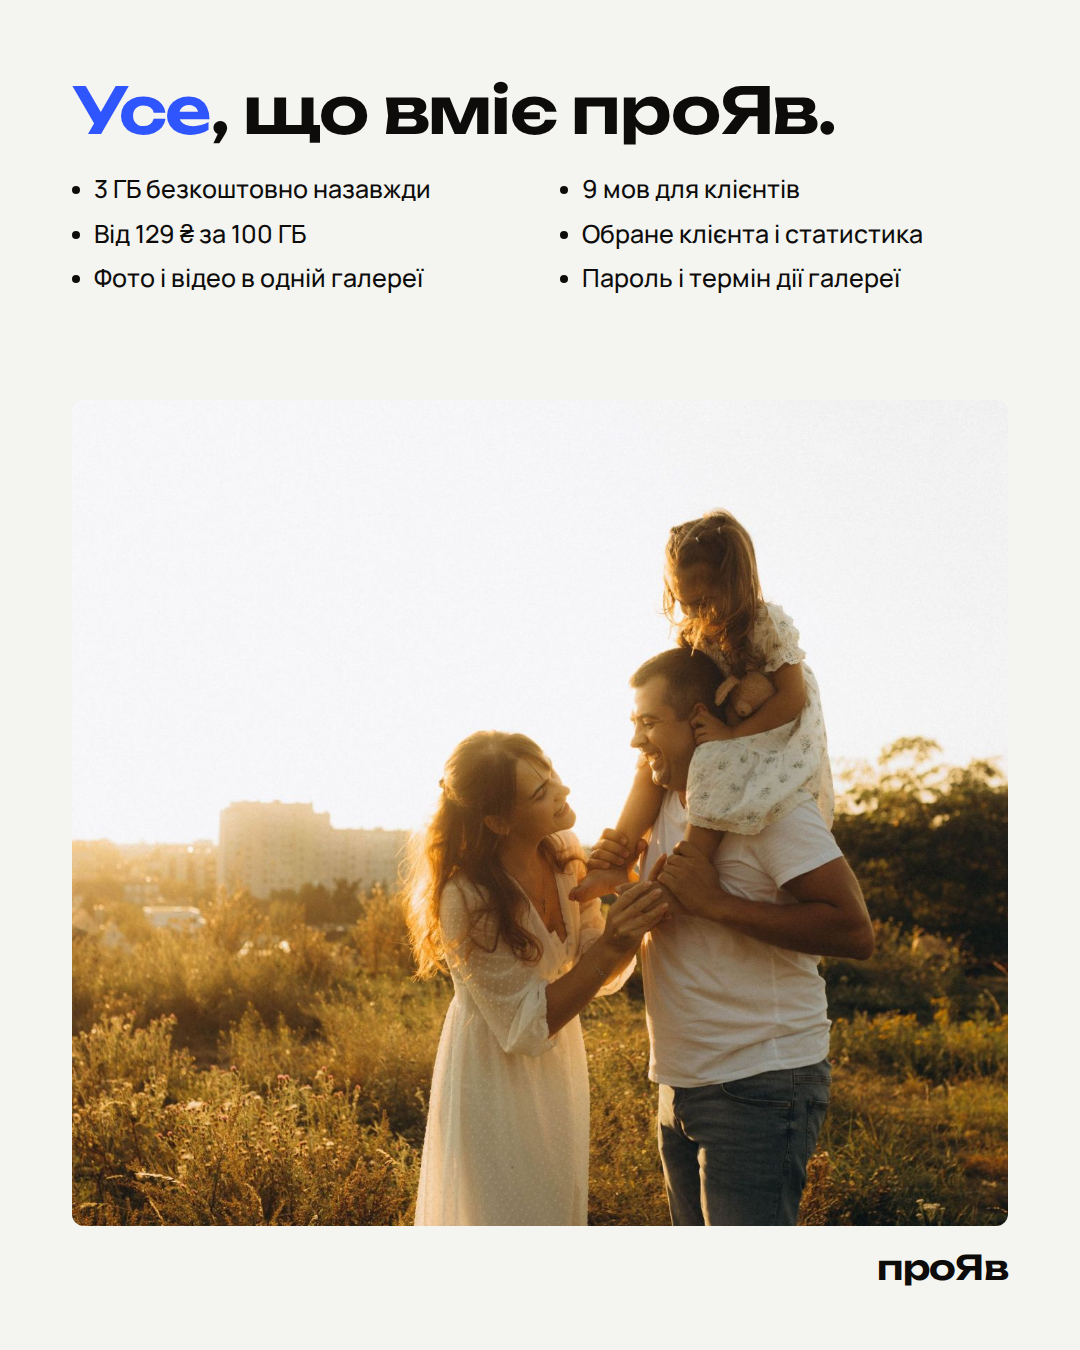
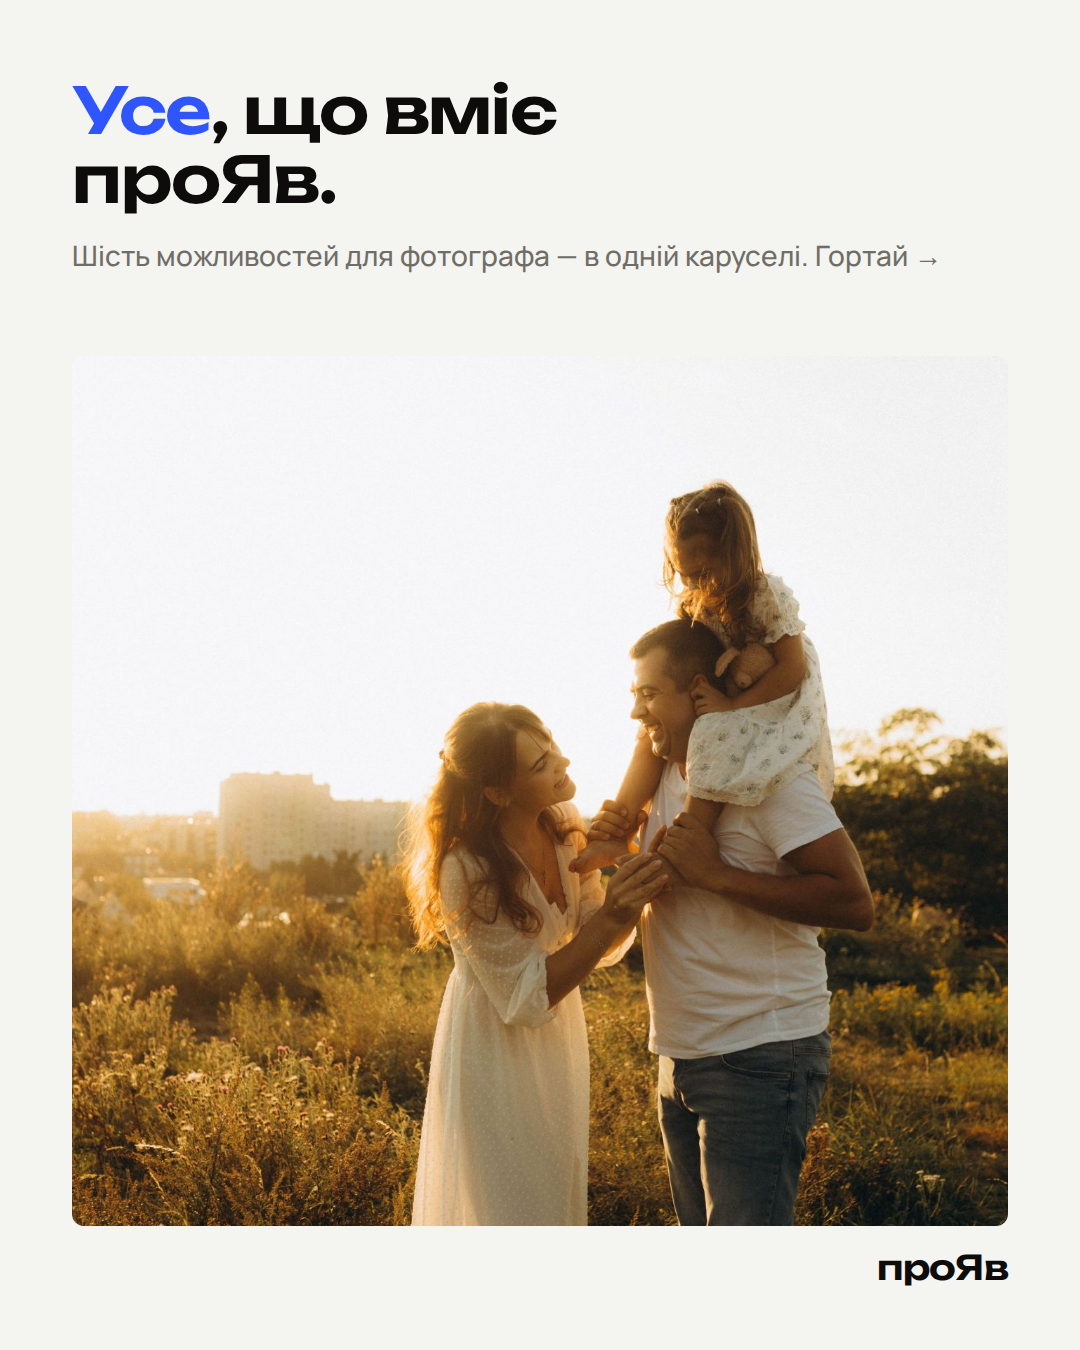
Instagram post 6: 8-slide feature roundup (gallery, favorites, password, video, languages, booking)
Claude-Session: https://claude.ai/code/session_011MSKAXg5H2XrJH8r6h15Hd

Changed region(s): [[0.0611, 0.3422, 0.9472, 0.9333], [0.0611, 0.0622, 0.8556, 0.2178]]

diff --git a/marketing/instagram/posts.html b/marketing/instagram/posts.html
@@ -319,6 +319,40 @@ const S = {
     ${gcard('s03', 'Весілля Марії та Андрія', `${pub} 312 фото · 96 переглядів`)}
     ${gcard('s09', 'Родина Мельників', `${pub} 64 фото · 41 перегляд`)}</div>`,
 
+  zipping: () => status() + cover('21', 'Серпень 2026', 'Весілля Ірини<br>та Тараса') +
+    bar({ dl: 'Готуємо архів: 142 / 248' }) + grid(['19', '20', '13', '24', '02', '05']),
+
+  settings: () => status() + `<div class="ph" style="height:190px;margin:0 8px;border-radius:var(--radius);${bg('07')}"></div>
+    <div class="dash"><span class="small muted" style="display:block;margin-top:14px">← Весілля Олі та Максима</span>
+    <h2 style="margin-top:6px">Пароль і термін дії</h2>
+    <div class="label">Пароль галереї</div><div class="field">••••••••</div>
+    <div class="small muted" style="margin-top:6px">Пароль встановлено — введіть новий, щоб змінити</div>
+    <div class="label">Діє до</div><div class="field">31.12.2026</div>
+    <div class="small muted" style="margin-top:6px">Після цієї дати галерея стане недоступною.</div>
+    <div class="row" style="margin-top:14px;align-items:flex-start"><span style="flex:none;width:18px;height:18px;border-radius:5px;background:var(--accent);color:#fff;display:grid;place-items:center;font-size:12px;font-weight:800">✓</span>
+      <span class="small">Ставити моє імʼя на превʼю фотографій (watermark)</span></div>
+    <div class="btn-a" style="margin-top:16px">Зберегти</div></div>`,
+
+  collage: () => status() + bar({ sel: '8 обрано' }) + `<div class="grid" style="grid-template-columns:repeat(3,1fr);grid-auto-flow:dense">
+    ${['27', '28', '29', '25', '26', 's14', 's04', 's09', 's03', 's01', 's11', '21'].map((n, i) =>
+      `<div class="shot ph" style="aspect-ratio:1;${i === 0 || i === 6 ? 'grid-column:span 2;grid-row:span 2;' : ''}${bg(n)}"></div>`).join('')}</div>`,
+
+  booking: () => status() + `<div class="ph" style="height:170px;margin:0 8px;border-radius:var(--radius);${bg('s14')}"></div>
+    <div class="dash"><h2 style="margin-top:16px">Оберіть зручний час</h2>
+    <div class="row" style="margin-top:12px;gap:8px">${['Пт 10', 'Сб 11', 'Нд 12', 'Сб 18'].map((d, i) =>
+      `<span class="pill" style="padding:7px 12px;font-size:12px;${i === 1 ? 'background:var(--fg);color:var(--bg);border-color:var(--fg)' : ''}">${d}</span>`).join('')}</div>
+    ${[['10:00', 'Сімейна зйомка · 60 хв', '2 500 ₴'], ['13:00', 'Лав-сторі · 90 хв', '3 200 ₴', true], ['17:30', 'Портрет · 60 хв', '2 000 ₴']]
+      .map(([t, what, price, sel]) => `<div class="card plan ${sel ? 'sel' : ''}"><div><b>${t}</b><div class="small muted">${what}</div></div><div class="price">${price}</div></div>`).join('')}
+    <div class="label">Ваше імʼя</div><div class="field">Леся</div>
+    <div class="btn-a" style="margin-top:14px">Забронювати цей час</div>
+    <div class="small muted" style="margin-top:10px;text-align:center">Оплата: Monobank · WayForPay · реквізити</div></div>`,
+
+  site: () => status(true) + `<div style="position:relative;height:470px"><div class="full"><div class="ph" style="position:absolute;inset:0;${bg('s03')}"></div>
+    <div style="position:absolute;inset:0;background:linear-gradient(180deg,rgba(0,0,0,.35),rgba(0,0,0,.05) 40%,rgba(0,0,0,.5))"></div>
+    <div class="row" style="position:absolute;top:60px;left:0;right:0;justify-content:center;gap:18px;color:#f7f4ee;font-size:12px;font-weight:700;letter-spacing:.12em;text-transform:uppercase"><span>Портфоліо</span><span>Ціни</span><span>Контакти</span></div>
+    <div class="inner"><span class="caps">Весільний і сімейний фотограф</span><div class="g-title" style="font-size:40px">Твоє імʼя</div></div></div></div>
+    <div class="grid" style="grid-template-columns:repeat(3,1fr)">${['s01', 's04', 's14', '27', 's09', '07'].map(n => `<div class="shot ph" style="aspect-ratio:3/4;${bg(n)}"></div>`).join('')}</div>`,
+
   onboarding: () => status() + `<div class="ph" style="height:280px;margin:0 8px;border-radius:var(--radius);${bg('s09')}"></div>
     <div class="dash"><h2 style="margin-top:18px">Ласкаво просимо у проЯв</h2>
     <p class="small muted" style="margin-top:6px">Три кроки — і клієнт отримає красиву галерею.</p>
@@ -374,11 +408,15 @@ const POSTS = [
     { h: 'Скільки разів <em>відкрили.</em>', p: 'Перегляди й завантаження кожної галереї — з тарифу «Плюс».', dark: true, s: S.statsList },
   ]],
   ['06', [
-    { h: '<em>Усе</em>, що вміє проЯв.', list: ['3 ГБ безкоштовно назавжди', '9 мов для клієнтів', 'Від 129 ₴ за 100 ГБ', 'Обране клієнта і статистика', 'Фото і відео в одній галереї', 'Пароль і термін дії галереї'], layout: 'photo', photo: 's14' },
-    { h: 'Перша галерея<br><em>за три кроки.</em>', p: 'Створи, завантаж, надішли клієнту посилання — за бажання під паролем.', stat: ['3', 'кроки до першої галереї'], layout: 'side', s: S.onboarding },
-    { h: 'Почни з <em>3 ГБ безкоштовно.</em>', p: 'Без картки. Посилання на реєстрацію — у профілі.', layout: 'photo', photo: 's04', ov: O.cta },
-  ]],
-]
+    { h: '<em>Усе</em>, що вміє<br>проЯв.', p: 'Шість можливостей для фотографа — в одній каруселі. Гортай →', layout: 'photo', photo: 's14' },
+    { h: 'Галерея <em>одним посиланням.</em>', p: 'Клієнт відкриває й завантажує сам — оригінали, усе одним zip. Без Google Drive.', s: S.gallery },
+    { h: 'Відбір<br><em>сердечком.</em>', p: 'Клієнт позначає кадри на ретуш, ти копіюєш список файлів одним натиском.', layout: 'photo', photo: '41', ov: O.fav },
+    { h: 'Пароль<br>і <em>термін дії.</em>', p: 'На кожну галерею окремо. Водяний знак на превʼю — за бажанням. Усе це є безкоштовно.', stat: ['31.12', 'і галерея закриється сама'], layout: 'side', s: S.settings },
+    { h: 'Відео —<br><em>з «Базового».</em>', p: 'Фільм і фото в одній галереї. Великі файли вантажаться частинами — обрив мережі не страшний.', layout: 'photo', photo: '29', ov: O.video },
+    { h: '<em>9 мов</em><br>для клієнтів.', p: 'Клієнт з-за кордону перемикає мову галереї сам.', layout: 'zoom', s: S.langOpen },
+    { h: 'Клієнт сам <em>бронює й платить.</em>', p: 'Monobank, WayForPay або реквізити — гроші йдуть напряму тобі. Неоплачений слот звільняється сам.', s: S.booking },
+    { h: 'Почни з <em>3 ГБ безкоштовно.</em>', p: 'Без картки. Більше місця — від 129 ₴ за 100 ГБ.<br>Посилання — у профілі.', layout: 'photo', photo: 's04', ov: O.cta },
+  ]],]
 
 document.getElementById('root').innerHTML = POSTS.map(([id, slides]) => `<div class="carousel">${slides.map((sl, i) => {
   const items = sl.list || sl.list3

diff --git a/marketing/instagram/README.md b/marketing/instagram/README.md
@@ -19,7 +19,7 @@
 | 03. Фото і відео | обкладинка | ролик грає в галереї | фільм, тизер, перший танець (Базовий, 129 ₴) | — |
 | 04. 9 мов | обкладинка | пароль мовою клієнта | мова вже в посиланні | 9 мов списком |
 | 05. Обране і статистика | обкладинка | клієнт ставить сердечко | список файлів одним натиском | скільки разів відкрили (Плюс) |
-| 06. Закріплений: усе, що вміє проЯв | обкладинка-перелік | перша галерея за три кроки | почни з 3 ГБ безкоштовно + CTA | — |
+| 06. Закріплений: усе, що вміє проЯв (8 слайдів) | обкладинка | галерея одним посиланням → відбір сердечком → пароль і термін дії → відео з «Базового» → 9 мов → бронювання й оплата | CTA: 3 ГБ безкоштовно | — |
 
 ## Факти звірено з кодом (`src/lib/plans.ts`)
 
@@ -63,7 +63,7 @@
 
 З «Плюс» ще й видно, скільки разів відкрили галерею і скільки завантажили. Посилання — у профілі.
 
-**6.** Усе, що вміє проЯв, — в одній каруселі. Збережи, щоб не шукати.
+**6.** Усе, що вміє проЯв, — в одній каруселі: галереї, відбір, пароль, відео, 9 мов і бронювання з оплатою. Збережи, щоб не шукати.
 
 Почни з 3 ГБ безкоштовно, без картки. Посилання — у профілі.
 
